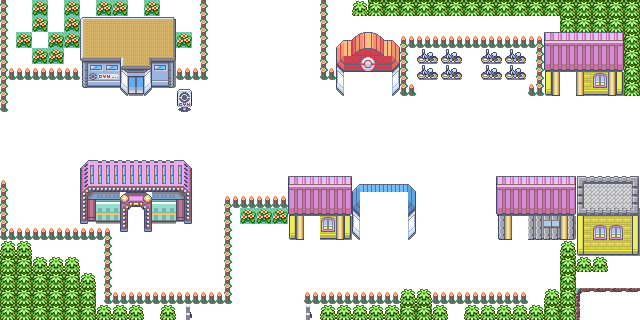
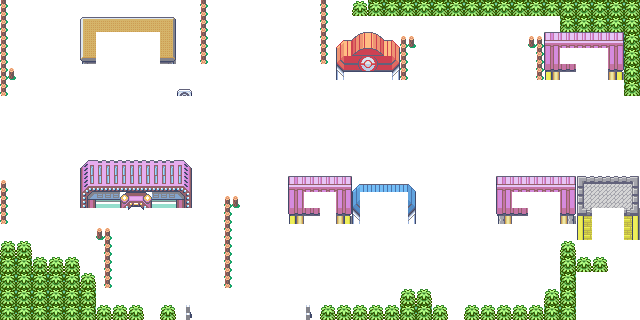
Flowers (layerType=1 tiles) now render below the player
New composite ground tileset (mauville_ground.png) uses:
- layerType 0 metatiles: bottom layer only (trees, signs, fences —
  their top layers go in the foreground to cover the player)
- layerType 1 metatiles: both layers merged (flowers, short bushes —
  their top layer renders in the ground so the player covers them)

Regenerated foreground PNG excluding layerType=1 tiles (209 kept,
155 excluded). This matches the OG GBA behavior where layerType 1
means "top layer on middle BG, below the player sprite".

Now when the player walks onto a flower tile, they appear standing
in front of the flowers (player covers flowers). When they walk onto
or near a tree, the tree canopy covers the player.

diff --git a/src/game/scenes/BootScene.ts b/src/game/scenes/BootScene.ts
@@ -12,10 +12,11 @@ export class BootScene extends Phaser.Scene {
   }
 
   preload(): void {
-    // Bottom-layer-only tileset for the ground layer.
-    // Top layer content (tree canopies, sign tops, fence posts, building
-    // overhangs) is in mauville_foreground.png, which renders above the player.
-    this.load.image("mauville_bottom", "/game/tilesets/mauville_bottom.png");
+    // Composite ground tileset — bottom layer for layerType-0 metatiles,
+    // both layers for layerType-1 metatiles. The latter (flowers, etc.)
+    // need their top layer in the ground so the player covers them.
+    // Layer-type-0 top layers (trees, signs, fences) are in the foreground.
+    this.load.image("mauville_bottom", "/game/tilesets/mauville_ground.png");
 
     // Foreground: single pre-rendered PNG of the top layer (renders above player)
     this.load.image("mauville_foreground", "/game/maps/mauville_foreground.png");
